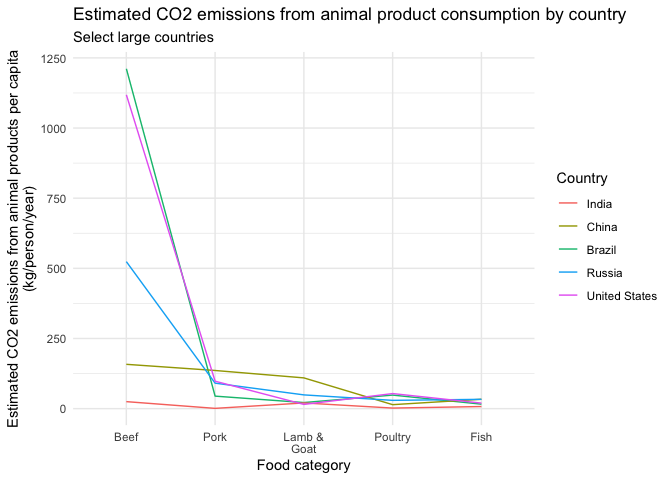
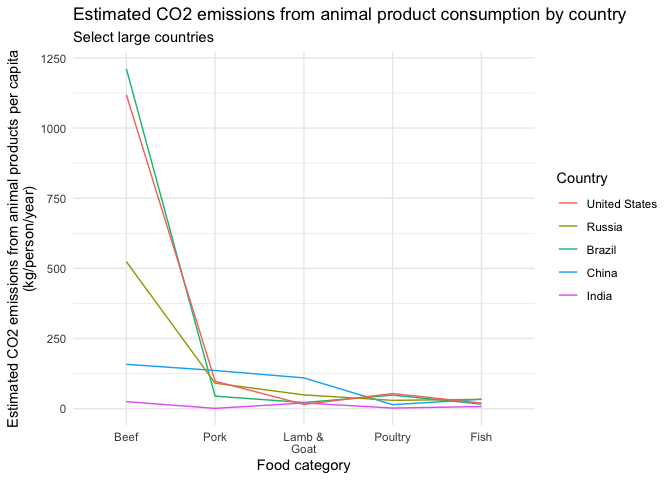
Project v1.5

diff --git a/p01-co2-emissions-animal-products.md b/p01-co2-emissions-animal-products.md
@@ -1071,7 +1071,7 @@ df_food_animal_bric %>%
     #  fct_reorder(food_category, desc(co2_emission_food)),
       consumption,
       group = country,
-      color = fct_reorder(country, food_animal_consumption_country)
+      color = fct_reorder(country, desc(food_animal_consumption_country))
     )
   ) + 
   scale_x_discrete(
@@ -1101,7 +1101,7 @@ df_food_animal_bric %>%
     aes(fct_reorder(food_category, desc(mean_co2_em_food_cohort)),
       co2_emission_food,
       group = country,
-      color = fct_reorder(country, food_animal_consumption_country)
+      color = fct_reorder(country, desc(food_animal_consumption_country))
     )
   ) + 
   scale_x_discrete(
@@ -1111,7 +1111,7 @@ df_food_animal_bric %>%
   labs(
     title = "Estimated CO2 emissions from animal product consumption by country",
     subtitle = "Select large countries",
-    x = "Food category, without Beef",
+    x = "Food category, without beef",
     y = "Estimated CO2 emissions from animal products per capita\n(kg/person/year)"
   ) +
   theme_minimal()
@@ -1130,7 +1130,7 @@ df_food_animal_bric %>%
     aes(fct_reorder(food_category, desc(mean_co2_em_food_cohort)),
       co2_emission_food,
       group = country,
-      color = fct_reorder(country, food_animal_consumption_country)
+      color = fct_reorder(country, desc(food_animal_consumption_country))
     )
   ) + 
   scale_x_discrete(
